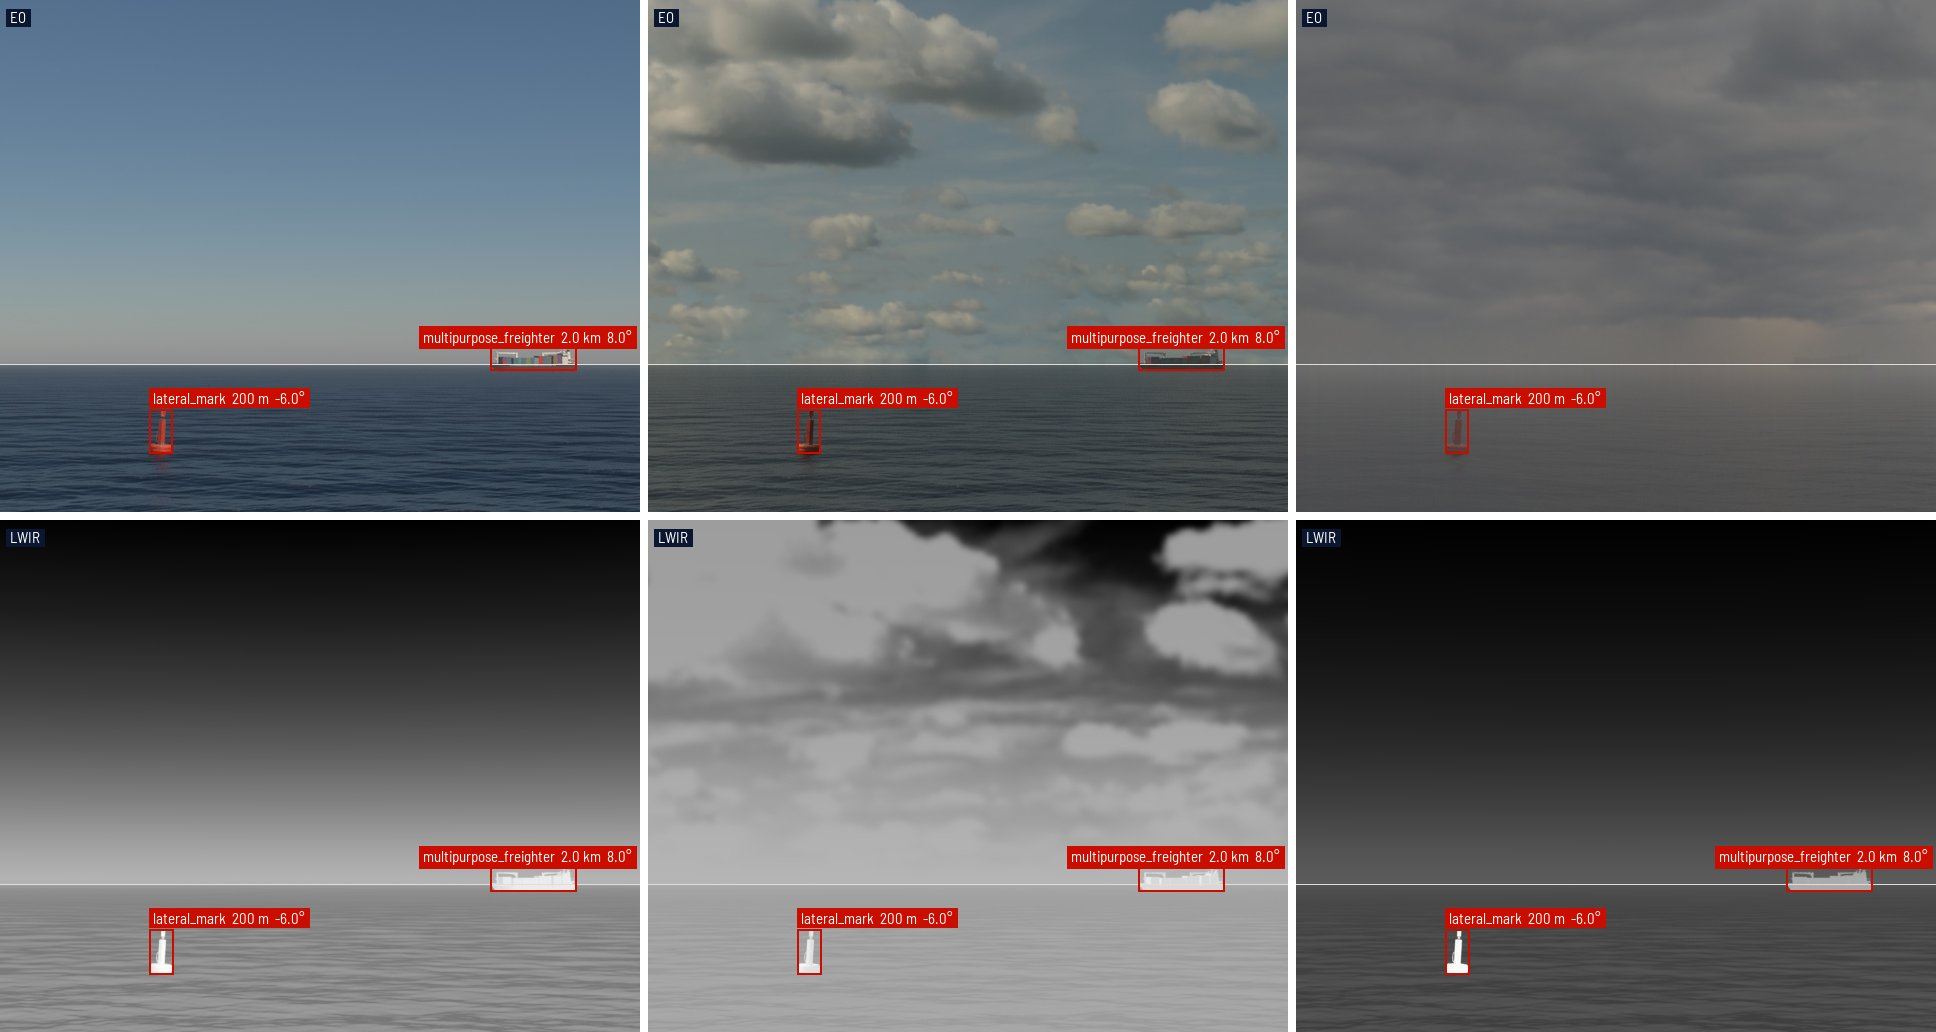
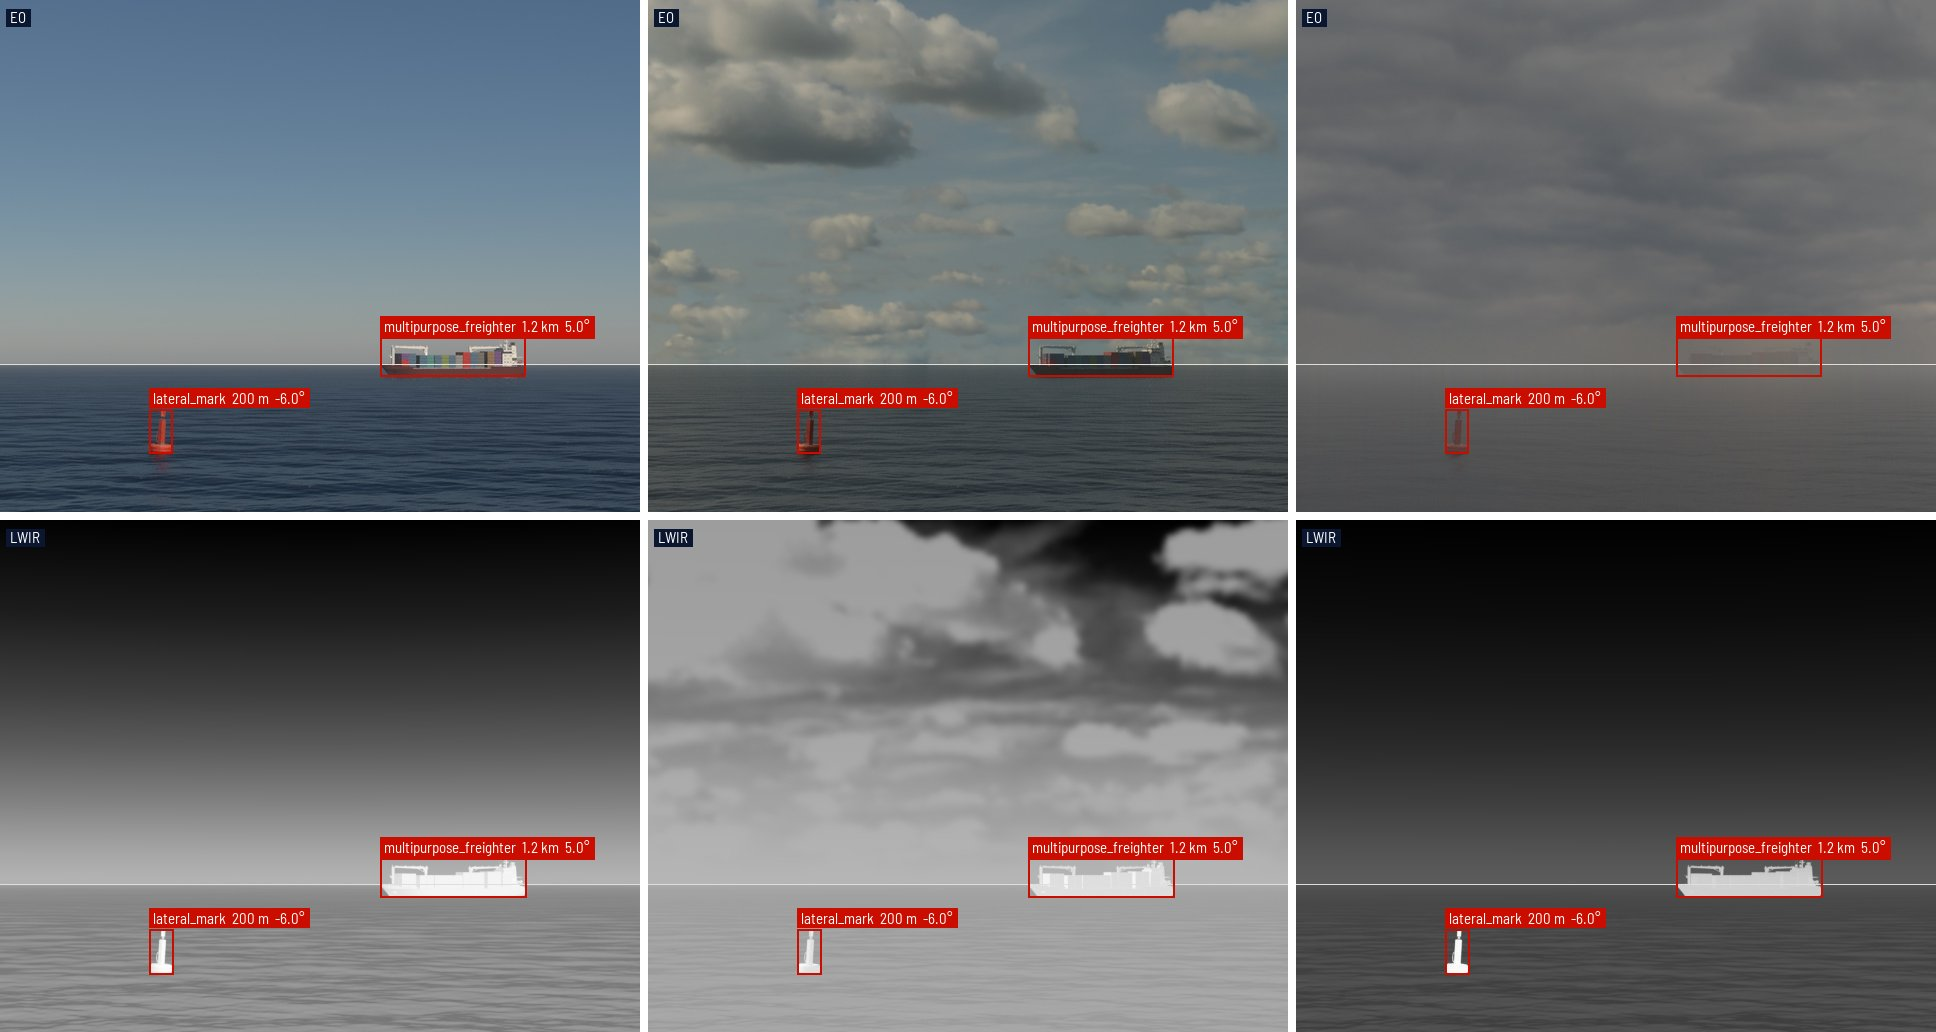
docs: the freighter at 1.2 km in the hero and primer, where it looks as big as the old ship at 2 km
The multipurpose freighter is 122.6 m long, the ship it replaced 200 m, so
at 2 km it filled 0.61 as much of the frame. The hero and the primer's EO/IR
and haze figures bring it to 1.2 km, and the hero turns it from 8 to 5
degrees off the bow, into the frame.

diff --git a/docs/primer/figures.py b/docs/primer/figures.py
@@ -47,7 +47,7 @@ FIGURES: dict[str, tuple[list[str], list[tuple[str, list[str]]]]] = {
         [(f"wind {u} m/s", [f"sea.wind_speed_mps = {u}.0"]) for u in (2, 7, 14)],
     ),
     "eo-ir": (
-        [*SKIES["cumulus"], f"objects = [{SHIP % 2000.0}]"],
+        [*SKIES["cumulus"], f"objects = [{SHIP % 1200.0}]"],
         [
             (name, [f'outputs.bands = ["{band}"]'])
             for name, band in (("EO", "eo"), ("LWIR", "ir"))
@@ -65,7 +65,7 @@ FIGURES: dict[str, tuple[list[str], list[tuple[str, list[str]]]]] = {
         ],
     ),
     "haze": (
-        [f"objects = [{SHIP % 2000.0}]"],
+        [f"objects = [{SHIP % 1200.0}]"],
         [(f"visibility {v} km", [f"sky.visibility_km = {v}.0"]) for v in (42, 10, 3)],
     ),
     "horizon": (

diff --git a/docs/primer/README.md b/docs/primer/README.md
@@ -96,7 +96,7 @@ Blender only knows red, green and blue, so all of this is NumPy: emissivity from
 
 Two things happen as a ship gets farther away. The air scatters its light away and sky light in, so it fades into the sky:
 
-<p align="center"><img src="haze.jpg" alt="A freighter at 2 km with visibility 42, 10 and 3 km"></p>
+<p align="center"><img src="haze.jpg" alt="A freighter at 1.2 km with visibility 42, 10 and 3 km"></p>
 
 And the earth curves away under it. Past the horizon a ship sinks hull-down:
 
